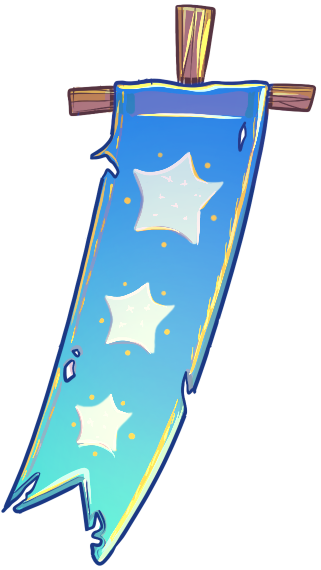
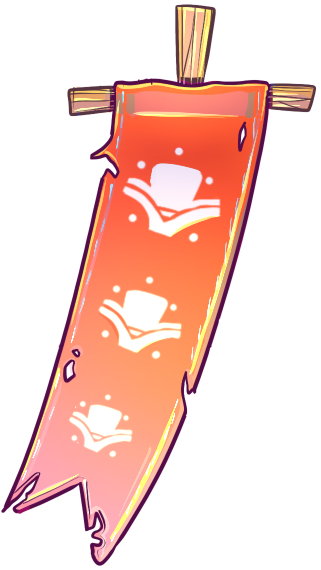
fix: décors et bannières de nuit, écran de chargement attend le décodage
- Les bannières de nuit étaient inversées : Méridiens en rouge, Fauteuillistes
  en bleu. Fichiers échangés.
- L'écran de chargement attend `image.decode()` : un décor téléchargé mais pas
  décodé retardait son premier affichage au camp.
- Alpha retiré des deux décors de nuit, sans réencodage : ils redeviennent
  opaques comme ceux du jour et se décodent aussi vite.
- Plafond de l'écran de chargement porté de 10 à 15 s.

diff --git a/tests/app/assets-loading-screen.test.ts b/tests/app/assets-loading-screen.test.ts
@@ -72,15 +72,32 @@ describe('le poids de l écran de chargement', () => {
   })
 })
 
-/** Un faux `Image` : le test dit lui-même quand chaque fichier arrive ou échoue. */
+/** Un faux `Image` : le test dit lui-même quand chaque fichier est décodé ou échoue. */
 class FakeImage {
   static created: FakeImage[] = []
-  onload: (() => void) | null = null
-  onerror: (() => void) | null = null
   src = ''
+  private resolve: () => void = () => {}
+  private reject: () => void = () => {}
 
   constructor() {
     FakeImage.created.push(this)
+  }
+
+  decode(): Promise<void> {
+    return new Promise((resolve, reject) => {
+      this.resolve = resolve
+      this.reject = reject
+    })
+  }
+
+  async decoded(): Promise<void> {
+    this.resolve()
+    await Promise.resolve()
+  }
+
+  async failed(): Promise<void> {
+    this.reject()
+    await Promise.resolve()
   }
 }
 
@@ -113,10 +130,10 @@ describe('le préchargement', () => {
     screen.start()
     expect(FakeImage.created.map(image => image.src)).toEqual(['/a.webp', '/b.webp'])
 
-    FakeImage.created[0]!.onload!()
+    await FakeImage.created[0]!.decoded()
     expect(screen.done.value).toBe(false)
 
-    FakeImage.created[1]!.onerror!()
+    await FakeImage.created[1]!.failed()
     expect(screen.done.value).toBe(true)
   })
 
@@ -132,7 +149,7 @@ describe('le préchargement', () => {
     expect(screen.loaded.value).toBe(screen.total)
 
     // Un fichier qui arrive après le plafond ne fait pas déborder la barre.
-    FakeImage.created[0]!.onload!()
+    await FakeImage.created[0]!.decoded()
     expect(screen.loaded.value).toBe(screen.total)
   })
 
@@ -189,7 +206,7 @@ describe('le préchargement d un boss', () => {
     expect(FakeImage.created.map(image => image.src)).toEqual(['/images/boss/1/door.webp'])
     expect(screen.done.value).toBe(false)
 
-    FakeImage.created[0]!.onload!()
+    await FakeImage.created[0]!.decoded()
     expect(screen.done.value).toBe(true)
   })
 

diff --git a/composables/useAssetsLoadingScreen.ts b/composables/useAssetsLoadingScreen.ts
@@ -2,7 +2,7 @@ import { behindMobileWall } from '../utils/mobileWall'
 import type { ComputedRef, Ref } from 'vue'
 
 /** Au plus combien de temps l'écran de chargement tient, depuis `start()`. */
-export const ASSETS_LOADING_CEILING_MS = 10_000
+export const ASSETS_LOADING_CEILING_MS = 15_000
 
 /**
  * Vrai pour le jeu, l'introduction et les pages de test : celles dont les
@@ -34,8 +34,10 @@ export interface AssetsLoadingScreen {
 
 /**
  * Le préchargement des fichiers du jeu, avant son premier affichage dans
- * l'onglet. Un fichier en erreur compte comme arrivé : il ne doit pas tenir
- * l'écran. Chaque objet `Image` est gardé (`kept`) : le navigateur sert alors
+ * l'onglet. Un fichier compte comme arrivé une fois décodé, pas seulement
+ * téléchargé : sinon le décodage d'un décor 2400×1080 retombe sur son premier
+ * affichage, et le camp attend son fond. Un fichier en erreur compte aussi : il
+ * ne doit pas tenir l'écran. Chaque objet `Image` est gardé (`kept`) : le navigateur sert alors
  * le fichier de sa mémoire quand le jeu le demande dans la même page. D'une visite à
  * l'autre, chaque image est revalidée (`netlify.toml`) : un 304 sans contenu si
  * elle n'a pas changé.
@@ -86,9 +88,8 @@ function preloading(files: string[], key: string): AssetsLoadingScreen {
 
     for (const url of files) {
       const image = new Image()
-      image.onload = settle
-      image.onerror = settle
       image.src = url
+      image.decode().then(settle, settle)
       kept.push(image)
     }
 
